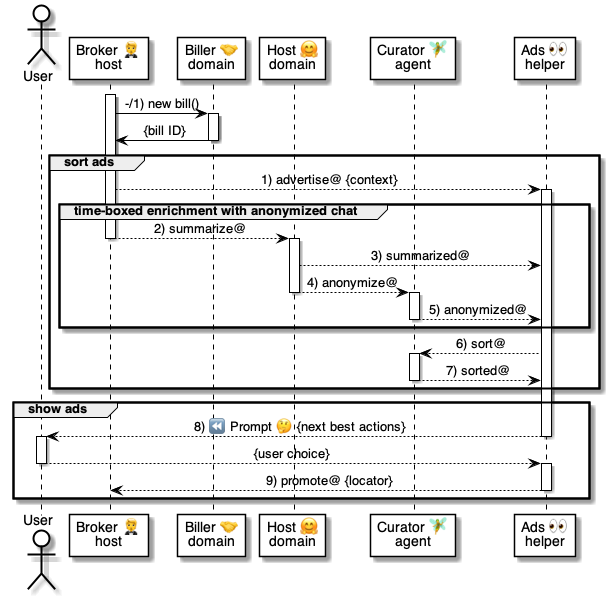
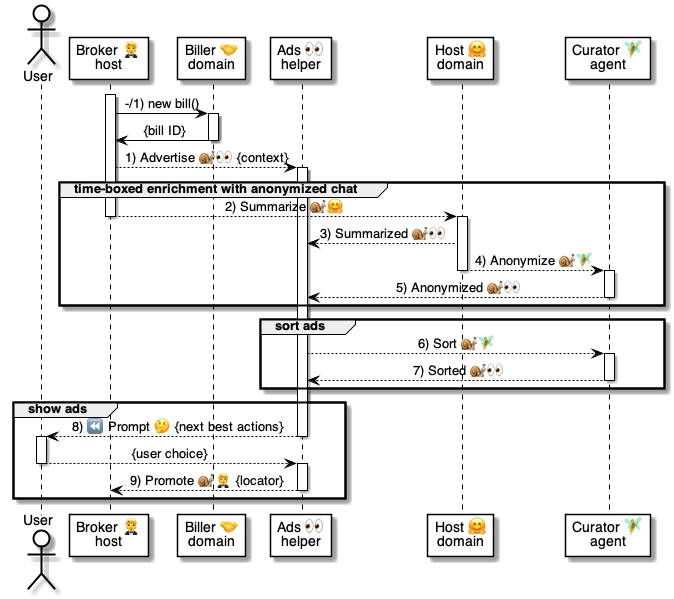
.

diff --git a/5 ⏩ Flows/05 👀⏩ Advertisers/01 👀⏩🧑🦰 Advertise.md b/5 ⏩ Flows/05 👀⏩ Advertisers/01 👀⏩🧑🦰 Advertise.md
@@ -1,17 +1,6 @@
 # 👀⏩🧑🦰 Advertise @ [Advertiser](<../../4 ⚙ Solution/30 🫥 Agents/10 🔎 Finders/03 👀👥 Advertiser helper.md>)
 
 
-## Privacy
-
-- [Advertisers 👀](<../../4 ⚙ Solution/30 🫥 Agents/10 🔎 Finders/03 👀👥 Advertiser helper.md>) can't read [Chat 💬](<../../4 ⚙ Solution/20 🧑🦰 UI/12 💬 Chats/01 💬 Chat.md>) contents.
-    - Instead, [Hosts 🤗](<../../4 ⚙ Solution/20 🧑🦰 UI/12 💬 Chats/04 🤗🎭 Host role.md>) and [Curators 🧚♀](<../../4 ⚙ Solution/30 🫥 Agents/03 🧚 Curators/01 🧚🫥 Curator agent.md>) summarize and anonymize [Chats 💬](<../../4 ⚙ Solution/20 🧑🦰 UI/12 💬 Chats/01 💬 Chat.md>)
-    - [Advertisers 👀](<../../4 ⚙ Solution/30 🫥 Agents/10 🔎 Finders/03 👀👥 Advertiser helper.md>) generate nest best actions with that anonymous summary.
-- [Hosts 🤗](<../../4 ⚙ Solution/20 🧑🦰 UI/12 💬 Chats/04 🤗🎭 Host role.md>) or [Curators 🧚♀](<../../4 ⚙ Solution/30 🫥 Agents/03 🧚 Curators/01 🧚🫥 Curator agent.md>) may fail to do their part.
-    - If so, [Advertisers 👀](<../../4 ⚙ Solution/30 🫥 Agents/10 🔎 Finders/03 👀👥 Advertiser helper.md>) generate based only on context given by [Brokers 🤵](<../../4 ⚙ Solution/20 🧑🦰 UI/03 🤵 Brokers/03 🤵 Broker domain.md>)
-- [Brokers 🤵](<../../4 ⚙ Solution/20 🧑🦰 UI/03 🤵 Brokers/03 🤵 Broker domain.md>) may not contact [Advertisers 👀](<../../4 ⚙ Solution/30 🫥 Agents/10 🔎 Finders/03 👀👥 Advertiser helper.md>) at all.
-    - For example, users may pay a subscription to avoid seeing generic ads.
-
-
 
 <br/>
 
@@ -25,10 +14,28 @@
 | 1 | [🤵🐌👀 Advertise @ Advertiser](<../../6 🅰 APIs/05 👀🅰 Advertiser/01 🤵🐌👀 Advertise.md>) | [Brokers 🤵](<../../4 ⚙ Solution/20 🧑🦰 UI/03 🤵 Brokers/03 🤵 Broker domain.md>) initiate the advertising with user context
 | 2 | [🤵🐌🤗 Summarize @ Host](<../../6 🅰 APIs/50 🤗🅰 Host/10 🤵🐌🤗 Summarize.md>) | Then ask [Hosts 🤗](<../../4 ⚙ Solution/20 🧑🦰 UI/12 💬 Chats/04 🤗🎭 Host role.md>) to summarize the [Chat 💬](<../../4 ⚙ Solution/20 🧑🦰 UI/12 💬 Chats/01 💬 Chat.md>)
 | 3 | [🤗🐌👀 Summarized @ Advertiser](<../../6 🅰 APIs/05 👀🅰 Advertiser/02 🤗🐌👀 Summarized.md>) | [Hosts 🤗](<../../4 ⚙ Solution/20 🧑🦰 UI/12 💬 Chats/04 🤗🎭 Host role.md>) notify [Advertisers 👀](<../../4 ⚙ Solution/30 🫥 Agents/10 🔎 Finders/03 👀👥 Advertiser helper.md>) when summarized
-| 4 | [🤗🐌🧚 Anonymize @ Curator](<../../6 🅰 APIs/35 🧚🅰 Curator/01 🤗🐌🧚 Anonymize.md>) | Then ask [Curators 🧚♀](<../../4 ⚙ Solution/30 🫥 Agents/03 🧚 Curators/01 🧚🫥 Curator agent.md>) to anonymize the summary
-| 5 | [🧚🐌👀 Anonymized @ Advertiser](<../../6 🅰 APIs/05 👀🅰 Advertiser/03 🧚🐌👀 Anonymized.md>) | [Curators 🧚♀](<../../4 ⚙ Solution/30 🫥 Agents/03 🧚 Curators/01 🧚🫥 Curator agent.md>) add anonymized summaries to context
-| 6 | [👀🐌🧚 Sort @ Curator](<../../6 🅰 APIs/35 🧚🅰 Curator/02 👀🐌🧚 Sort.md>) | [Advertisers 👀](<../../4 ⚙ Solution/30 🫥 Agents/10 🔎 Finders/03 👀👥 Advertiser helper.md>) ask [Curators 🧚♀](<../../4 ⚙ Solution/30 🫥 Agents/03 🧚 Curators/01 🧚🫥 Curator agent.md>) to sort possible ads
-| 7 | [🧚🐌👀 Sorted @ Advertiser](<../../6 🅰 APIs/05 👀🅰 Advertiser/04 🧚🐌👀 Sorted.md>) | [Curators 🧚♀](<../../4 ⚙ Solution/30 🫥 Agents/03 🧚 Curators/01 🧚🫥 Curator agent.md>) return their view of user preferences
+| 4 | [🤗🐌🧚 Anonymize @ Curator](<../../6 🅰 APIs/35 🧚🅰 Curator/01 🤗🐌🧚 Anonymize.md>) | Then ask [Curators 🧚](<../../4 ⚙ Solution/30 🫥 Agents/03 🧚 Curators/01 🧚🫥 Curator agent.md>) to anonymize the summary
+| 5 | [🧚🐌👀 Anonymized @ Advertiser](<../../6 🅰 APIs/05 👀🅰 Advertiser/03 🧚🐌👀 Anonymized.md>) | [Curators 🧚](<../../4 ⚙ Solution/30 🫥 Agents/03 🧚 Curators/01 🧚🫥 Curator agent.md>) add anonymized summaries to context
+| 6 | [👀🐌🧚 Sort @ Curator](<../../6 🅰 APIs/35 🧚🅰 Curator/02 👀🐌🧚 Sort.md>) | [Advertisers 👀](<../../4 ⚙ Solution/30 🫥 Agents/10 🔎 Finders/03 👀👥 Advertiser helper.md>) ask [Curators 🧚](<../../4 ⚙ Solution/30 🫥 Agents/03 🧚 Curators/01 🧚🫥 Curator agent.md>) to sort possible ads
+| 7 | [🧚🐌👀 Sorted @ Advertiser](<../../6 🅰 APIs/05 👀🅰 Advertiser/04 🧚🐌👀 Sorted.md>) | [Curators 🧚](<../../4 ⚙ Solution/30 🫥 Agents/03 🧚 Curators/01 🧚🫥 Curator agent.md>) return their view of user preferences
 | 8 | [🤗⏩🧑🦰 Prompt 🤔](<../50 🤗⏩ Hosts/01 🤗⏩🧑🦰 Prompt 🤔.md>) | [Advertisers 👀](<../../4 ⚙ Solution/30 🫥 Agents/10 🔎 Finders/03 👀👥 Advertiser helper.md>) show  next best actions to [Wallets 🧑🦰](<../../4 ⚙ Solution/20 🧑🦰 UI/01 🧑🦰 Wallets/01 🧑🦰 Wallet app.md>)
-| 9 | [👀🐌🤵 Promote @ Broker](<../../6 🅰 APIs/15 🤵🅰 Broker/30 🤵🅰 Chats 💬/06 👀🐌🤵 Promote.md>) | Then ask [Brokers 🤵](<../../4 ⚙ Solution/20 🧑🦰 UI/03 🤵 Brokers/03 🤵 Broker domain.md>) to check-in into any selection
+| 9 | [👀🐌🤵 Promote @ Broker](<../../6 🅰 APIs/15 🤵🅰 Broker/20 🤵🅰 Locators/06 👀🐌🤵 Promote.md>) | Then ask [Brokers 🤵](<../../4 ⚙ Solution/20 🧑🦰 UI/03 🤵 Brokers/03 🤵 Broker domain.md>) to check-in into any selection
 ||
+
+<br/>
+
+## FAQ
+
+1. **How is privacy protected?**
+
+    - [Advertisers 👀](<../../4 ⚙ Solution/30 🫥 Agents/10 🔎 Finders/03 👀👥 Advertiser helper.md>) can't read [Chat 💬](<../../4 ⚙ Solution/20 🧑🦰 UI/12 💬 Chats/01 💬 Chat.md>) contents.
+        - Instead, [Hosts 🤗](<../../4 ⚙ Solution/20 🧑🦰 UI/12 💬 Chats/04 🤗🎭 Host role.md>) and [Curators 🧚](<../../4 ⚙ Solution/30 🫥 Agents/03 🧚 Curators/01 🧚🫥 Curator agent.md>) summarize and anonymize [Chats 💬](<../../4 ⚙ Solution/20 🧑🦰 UI/12 💬 Chats/01 💬 Chat.md>)
+        - [Advertisers 👀](<../../4 ⚙ Solution/30 🫥 Agents/10 🔎 Finders/03 👀👥 Advertiser helper.md>) generate nest best actions with that anonymous summary.
+    - [Hosts 🤗](<../../4 ⚙ Solution/20 🧑🦰 UI/12 💬 Chats/04 🤗🎭 Host role.md>) or [Curators 🧚](<../../4 ⚙ Solution/30 🫥 Agents/03 🧚 Curators/01 🧚🫥 Curator agent.md>) may fail to do their part.
+        - If so, [Advertisers 👀](<../../4 ⚙ Solution/30 🫥 Agents/10 🔎 Finders/03 👀👥 Advertiser helper.md>) generate based only on context given by [Brokers 🤵](<../../4 ⚙ Solution/20 🧑🦰 UI/03 🤵 Brokers/03 🤵 Broker domain.md>)
+    - [Brokers 🤵](<../../4 ⚙ Solution/20 🧑🦰 UI/03 🤵 Brokers/03 🤵 Broker domain.md>) may not contact [Advertisers 👀](<../../4 ⚙ Solution/30 🫥 Agents/10 🔎 Finders/03 👀👥 Advertiser helper.md>) at all.
+        - For example, users may pay a subscription to avoid seeing generic ads.
+
+    ---
+    <br/>
+

diff --git a/4 ⚙ Solution/20 🧑🦰 UI/03 🤵 Brokers/03 🤵 Broker domain.md b/4 ⚙ Solution/20 🧑🦰 UI/03 🤵 Brokers/03 🤵 Broker domain.md
@@ -94,7 +94,7 @@
     | | [🤗🐌 Prompt](<../../../6 🅰 APIs/15 🤵🅰 Broker/30 🤵🅰 Chats 💬/03 🤗🐌🤵 Prompt.md>) |   [Prompt 🤔](<../../../9 😃 Talkers/10 📘 Talker specs/20 🤔 Prompt.md>) intent from [Host 🤗 domain](<../12 💬 Chats/04 🤗🎭 Host role.md>) 
     | |[🔎🐌 Introduced](<../../../6 🅰 APIs/15 🤵🅰 Broker/30 🤵🅰 Chats 💬/04 🔎🐌🤵 Introduced.md>) | A [Finder 🔎 domain](<../../../4 ⚙ Solution/30 🫥 Agents/10 🔎 Finders/02 🔎🫥 Finder vault.md>) finished the intro
     | |[🤗🐌 Goodbye](<../../../6 🅰 APIs/15 🤵🅰 Broker/30 🤵🅰 Chats 💬/05 🤗🐌🤵 Goodbye.md>) | A [Host 🤗 domain](<../12 💬 Chats/04 🤗🎭 Host role.md>) ended the [Chat 💬](<../12 💬 Chats/01 💬 Chat.md>)
-    | | [👀🐌 Promote](<../../../6 🅰 APIs/15 🤵🅰 Broker/30 🤵🅰 Chats 💬/06 👀🐌🤵 Promote.md>) |  Check-in into the selected [Locator 🔆](<../11 🔆 Locators/01 🔆 Locator.md>)
+    | | [👀🐌 Promote](<../../../6 🅰 APIs/15 🤵🅰 Broker/20 🤵🅰 Locators/06 👀🐌🤵 Promote.md>) |  Check-in into the selected [Locator 🔆](<../11 🔆 Locators/01 🔆 Locator.md>)
     | | [🧑🦰🐌 Help](<../../../6 🅰 APIs/15 🤵🅰 Broker/30 🤵🅰 Chats 💬/07 🧑🦰🐌🤵 Help.md>) | Ask for the [Broker 🤵](<../../../4 ⚙ Solution/20 🧑🦰 UI/03 🤵 Brokers/03 🤵 Broker domain.md>) to join a [Chat 💬](<../12 💬 Chats/01 💬 Chat.md>) 
     |[`🔗 Binds`](<../../../4 ⚙ Solution/20 🧑🦰 UI/24 🗄 Vaults/01 🔗 Bind.md>)| [🧑🦰🚀 Binds](<../../../6 🅰 APIs/15 🤵🅰 Broker/40 🤵🅰 Binds 🔗/10 🧑🦰🚀🤵 Binds.md>) | List the [Binds 🔗](<../../../4 ⚙ Solution/20 🧑🦰 UI/24 🗄 Vaults/01 🔗 Bind.md>) of a [Wallet 🧑🦰 app](<../../../4 ⚙ Solution/20 🧑🦰 UI/01 🧑🦰 Wallets/01 🧑🦰 Wallet app.md>)
     || [🗄🐌 Bindable](<../../../6 🅰 APIs/15 🤵🅰 Broker/40 🤵🅰 Binds 🔗/20 🗄🐌🤵 Bindable.md>) | [Vaults 🗄](<../24 🗄 Vaults/03 🗄🎭 Vault role.md>) offer to bind [Schema Codes 🧩](<../../../4 ⚙ Solution/20 🧑🦰 UI/24 🗄 Vaults/02 🧩 Schema Code.md>)

diff --git a/6 🅰 APIs/15 🤵🅰 Broker/20 🤵🅰 Locators/06 👀🐌🤵 Promote.md b/6 🅰 APIs/15 🤵🅰 Broker/20 🤵🅰 Locators/06 👀🐌🤵 Promote.md
@@ -1,5 +1,5 @@
 # 👀🐌🤵 Promote @ Broker
-
+ § 
 > Used in [👀⏩🧑🦰 Advertise](<../../../5 ⏩ Flows/05 👀⏩ Advertisers/01 👀⏩🧑🦰 Advertise.md>)
 
 * [Advertiser 👀 helper domains](<../../../4 ⚙ Solution/30 🫥 Agents/10 🔎 Finders/03 👀👥 Advertiser helper.md>) 
@@ -24,9 +24,9 @@ Body:
 
 |Object|Property|Type|Description
 |-|-|-|-
-|Header|`From`     | string  | [Advertiser 👀 domain](<../../../4 ⚙ Solution/30 🫥 Agents/10 🔎 Finders/03 👀👥 Advertiser helper.md>)
-||`To`       | string  | [Broker 🤵 domain](<../../../4 ⚙ Solution/20 🧑🦰 UI/03 🤵 Brokers/03 🤵 Broker domain.md>)
+| Header    | `From`| uuid  | [Wallet 🧑🦰](<../../../4 ⚙ Solution/20 🧑🦰 UI/01 🧑🦰 Wallets/01 🧑🦰 Wallet app.md>)  from [`Onboard@Notifier`](<../../65 📣🅰 Notifier/01 📣🤵🅰 Onboard/11 🧑🦰🚀📣 Onboard.md>)
+|           | `To`  | string| [Broker 🤵](<../../../4 ⚙ Solution/20 🧑🦰 UI/03 🤵 Brokers/03 🤵 Broker domain.md>) from [`Onboard@Notifier`](<../../65 📣🅰 Notifier/01 📣🤵🅰 Onboard/11 🧑🦰🚀📣 Onboard.md>)
 ||`Subject` | string | `Promote@Broker`
-|Body|`ChatID`        | uuid    | ID of the [Chat 💬](<../../../4 ⚙ Solution/20 🧑🦰 UI/12 💬 Chats/01 💬 Chat.md>)
+|Body|`ChatID`  | uuid   | [Chat 💬](<../../../4 ⚙ Solution/20 🧑🦰 UI/12 💬 Chats/01 💬 Chat.md>)  from [`Assessed@Notifier`](<../../65 📣🅰 Notifier/02 📣💬🅰 Chats/21 🤵🐌📣 Assessed.md>)
 ||`Locator`  | string  | [Locator 🔆](<../../../4 ⚙ Solution/20 🧑🦰 UI/11 🔆 Locators/01 🔆 Locator.md>) to promote
 |

diff --git a/9 😃 Talkers/20 🤔 Prompts/7 ✏ Input prompts/57 🔑 OTP prompt.md b/9 😃 Talkers/20 🤔 Prompts/7 ✏ Input prompts/57 🔑 OTP prompt.md
@@ -38,7 +38,7 @@
     <br/>
 
 
-1. **What's the response in the [Prompted@Host](<../../../6 🅰 APIs/50 🤗🅰 Host/04 🧑🦰🚀🤗 Prompted.md>) method?**
+1. **What's the response in the [Prompted@Host](<../../../6 🅰 APIs/50 🤗🅰 Host/04 🧑🦰🚀🤗 Prompted.md>) message?**
 
     ```yaml
     
@@ -47,7 +47,7 @@
     ---
     <br/>
 
-1. **What's the Answer in the [Reply@Host](<../../../6 🅰 APIs/50 🤗🅰 Host/05 🧑🦰🐌🤗 Reply.md>) method?**
+1. **What's the Answer in the [Reply@Host](<../../../6 🅰 APIs/50 🤗🅰 Host/05 🧑🦰🐌🤗 Reply.md>) message?**
 
     ```yaml
     

diff --git a/9 😃 Talkers/20 🤔 Prompts/7 ✏ Input prompts/61 📆 DATE prompt.md b/9 😃 Talkers/20 🤔 Prompts/7 ✏ Input prompts/61 📆 DATE prompt.md
@@ -38,7 +38,7 @@
     <br/>
 
 
-1. **What's the response in the [Prompted@Host](<../../../6 🅰 APIs/50 🤗🅰 Host/04 🧑🦰🚀🤗 Prompted.md>) method?**
+1. **What's the response in the [Prompted@Host](<../../../6 🅰 APIs/50 🤗🅰 Host/04 🧑🦰🚀🤗 Prompted.md>) message?**
 
     ```yaml
     
@@ -47,7 +47,7 @@
     ---
     <br/>
 
-1. **What's the Answer in the [Reply@Host](<../../../6 🅰 APIs/50 🤗🅰 Host/05 🧑🦰🐌🤗 Reply.md>) method?**
+1. **What's the Answer in the [Reply@Host](<../../../6 🅰 APIs/50 🤗🅰 Host/05 🧑🦰🐌🤗 Reply.md>) message?**
 
     ```yaml
     

diff --git a/9 😃 Talkers/20 🤔 Prompts/7 ✏ Input prompts/71 👤 IDENTIFY prompt.md b/9 😃 Talkers/20 🤔 Prompts/7 ✏ Input prompts/71 👤 IDENTIFY prompt.md
@@ -40,7 +40,7 @@
     <br/>
 
 
-1. **What's the response in the [Prompted@Host](<../../../6 🅰 APIs/50 🤗🅰 Host/04 🧑🦰🚀🤗 Prompted.md>) method?**
+1. **What's the response in the [Prompted@Host](<../../../6 🅰 APIs/50 🤗🅰 Host/04 🧑🦰🚀🤗 Prompted.md>) message?**
 
     ```yaml
     
@@ -49,7 +49,7 @@
     ---
     <br/>
 
-1. **What's the Answer in the [Reply@Host](<../../../6 🅰 APIs/50 🤗🅰 Host/05 🧑🦰🐌🤗 Reply.md>) method?**
+1. **What's the Answer in the [Reply@Host](<../../../6 🅰 APIs/50 🤗🅰 Host/05 🧑🦰🐌🤗 Reply.md>) message?**
 
     ```yaml
     

diff --git a/9 😃 Talkers/20 🤔 Prompts/7 ✏ Input prompts/72 🔆 SCAN prompt.md b/9 😃 Talkers/20 🤔 Prompts/7 ✏ Input prompts/72 🔆 SCAN prompt.md
@@ -43,7 +43,7 @@
     <br/>
 
 
-1. **What's the response in the [Prompted@Host](<../../../6 🅰 APIs/50 🤗🅰 Host/04 🧑🦰🚀🤗 Prompted.md>) method?**
+1. **What's the response in the [Prompted@Host](<../../../6 🅰 APIs/50 🤗🅰 Host/04 🧑🦰🚀🤗 Prompted.md>) message?**
 
     ```yaml
     
@@ -52,7 +52,7 @@
     ---
     <br/>
 
-1. **What's the Answer in the [Reply@Host](<../../../6 🅰 APIs/50 🤗🅰 Host/05 🧑🦰🐌🤗 Reply.md>) method?**
+1. **What's the Answer in the [Reply@Host](<../../../6 🅰 APIs/50 🤗🅰 Host/05 🧑🦰🐌🤗 Reply.md>) message?**
 
     ```yaml
     

diff --git a/9 😃 Talkers/20 🤔 Prompts/7 ✏ Input prompts/73 🦋 TOUCH prompt.md b/9 😃 Talkers/20 🤔 Prompts/7 ✏ Input prompts/73 🦋 TOUCH prompt.md
@@ -40,7 +40,7 @@
     <br/>
 
 
-1. **What's the response in the [Prompted@Host](<../../../6 🅰 APIs/50 🤗🅰 Host/04 🧑🦰🚀🤗 Prompted.md>) method?**
+1. **What's the response in the [Prompted@Host](<../../../6 🅰 APIs/50 🤗🅰 Host/04 🧑🦰🚀🤗 Prompted.md>) message?**
 
     ```yaml
     
@@ -49,7 +49,7 @@
     ---
     <br/>
 
-1. **What's the Answer in the [Reply@Host](<../../../6 🅰 APIs/50 🤗🅰 Host/05 🧑🦰🐌🤗 Reply.md>) method?**
+1. **What's the Answer in the [Reply@Host](<../../../6 🅰 APIs/50 🤗🅰 Host/05 🧑🦰🐌🤗 Reply.md>) message?**
 
     ```yaml
     

diff --git a/9 😃 Talkers/20 🤔 Prompts/7 ✏ Input prompts/74 🛒 EAN prompt.md b/9 😃 Talkers/20 🤔 Prompts/7 ✏ Input prompts/74 🛒 EAN prompt.md
@@ -42,7 +42,7 @@
     <br/>
 
 
-1. **What's the response in the [Prompted@Host](<../../../6 🅰 APIs/50 🤗🅰 Host/04 🧑🦰🚀🤗 Prompted.md>) method?**
+1. **What's the response in the [Prompted@Host](<../../../6 🅰 APIs/50 🤗🅰 Host/04 🧑🦰🚀🤗 Prompted.md>) message?**
 
     ```yaml
     
@@ -51,7 +51,7 @@
     ---
     <br/>
 
-1. **What's the Answer in the [Reply@Host](<../../../6 🅰 APIs/50 🤗🅰 Host/05 🧑🦰🐌🤗 Reply.md>) method?**
+1. **What's the Answer in the [Reply@Host](<../../../6 🅰 APIs/50 🤗🅰 Host/05 🧑🦰🐌🤗 Reply.md>) message?**
 
     ```yaml
     

diff --git a/9 😃 Talkers/20 🤔 Prompts/2 ✏ Input specs/14 😶 Input emojis.md b/9 😃 Talkers/20 🤔 Prompts/2 ✏ Input specs/14 😶 Input emojis.md
@@ -8,7 +8,7 @@
 
     No.
 
-    * Emojis are not specified in the [`Prompted@Host`](<../../../6 🅰 APIs/50 🤗🅰 Host/04 🧑🦰🚀🤗 Prompted.md>) method.
+    * Emojis are not specified in the [`Prompted@Host`](<../../../6 🅰 APIs/50 🤗🅰 Host/04 🧑🦰🚀🤗 Prompted.md>) message.
         * Thus, [Host 🤗 domains](<../../../4 ⚙ Solution/20 🧑🦰 UI/12 💬 Chats/04 🤗🎭 Host role.md>) can send simple strings to [Wallet 🧑🦰 apps](<../../../4 ⚙ Solution/20 🧑🦰 UI/01 🧑🦰 Wallets/01 🧑🦰 Wallet app.md>).
   
     * However, NLWeb advocates for emojis.

diff --git a/6 🅰 APIs/49 🛠🅰 Helper/11 🤵🐌🛠 Invited.md b/6 🅰 APIs/49 🛠🅰 Helper/11 🤵🐌🛠 Invited.md
@@ -3,7 +3,7 @@
 > Invests a [Host 🤗 domain](<../../4 ⚙ Solution/20 🧑🦰 UI/12 💬 Chats/04 🤗🎭 Host role.md>) into a [Chat 💬](<../../4 ⚙ Solution/20 🧑🦰 UI/12 💬 Chats/01 💬 Chat.md>).
 
 > Part of the [🤗⏩🧑🦰 Invite @ Host](<../../5 ⏩ Flows/50 🤗⏩ Hosts/03 🤗⏩🧑🦰 Invite 🛠.md>) flow.
-><br/> • preceded by [`Invite@Host`](<../15 🤵🅰 Broker/60 🤵🅰 Share/64 💼🐌🤵 Invite.md>) message
+><br/> • preceded by the [`Invite@Host`](<../15 🤵🅰 Broker/60 🤵🅰 Share/64 💼🐌🤵 Invite.md>) message
 
 <br/>
 

diff --git a/6 🅰 APIs/92 😃🅰 Talker/10 🧑💻🚀😃 Placed.md b/6 🅰 APIs/92 😃🅰 Talker/10 🧑💻🚀😃 Placed.md
@@ -4,7 +4,7 @@
 
 > Part of [Handle @ Talker 😃⏩🧑💻](<../../5 ⏩ Flows/79 😃⏩ Talkers/20 😃⏩🧑💻 Handle 🐍.md>) flow
 
-> Paired with [`Place@Talker`](<20 🧑💻🐌😃 Place.md>) method
+> Paired with [`Place@Talker`](<20 🧑💻🐌😃 Place.md>) message
 
 * Reads a [$Placeholder 💾](<../../9 😃 Talkers/30 🗃 Talker data/10 💾 $Placeholder.md>)
 * The placeholder [`$.Chat`](<../../9 😃 Talkers/30 🗃 Talker data/11 💬 $.Chat holder.md>) contains [Chat 💬](<../../4 ⚙ Solution/20 🧑🦰 UI/12 💬 Chats/01 💬 Chat.md>) details.
